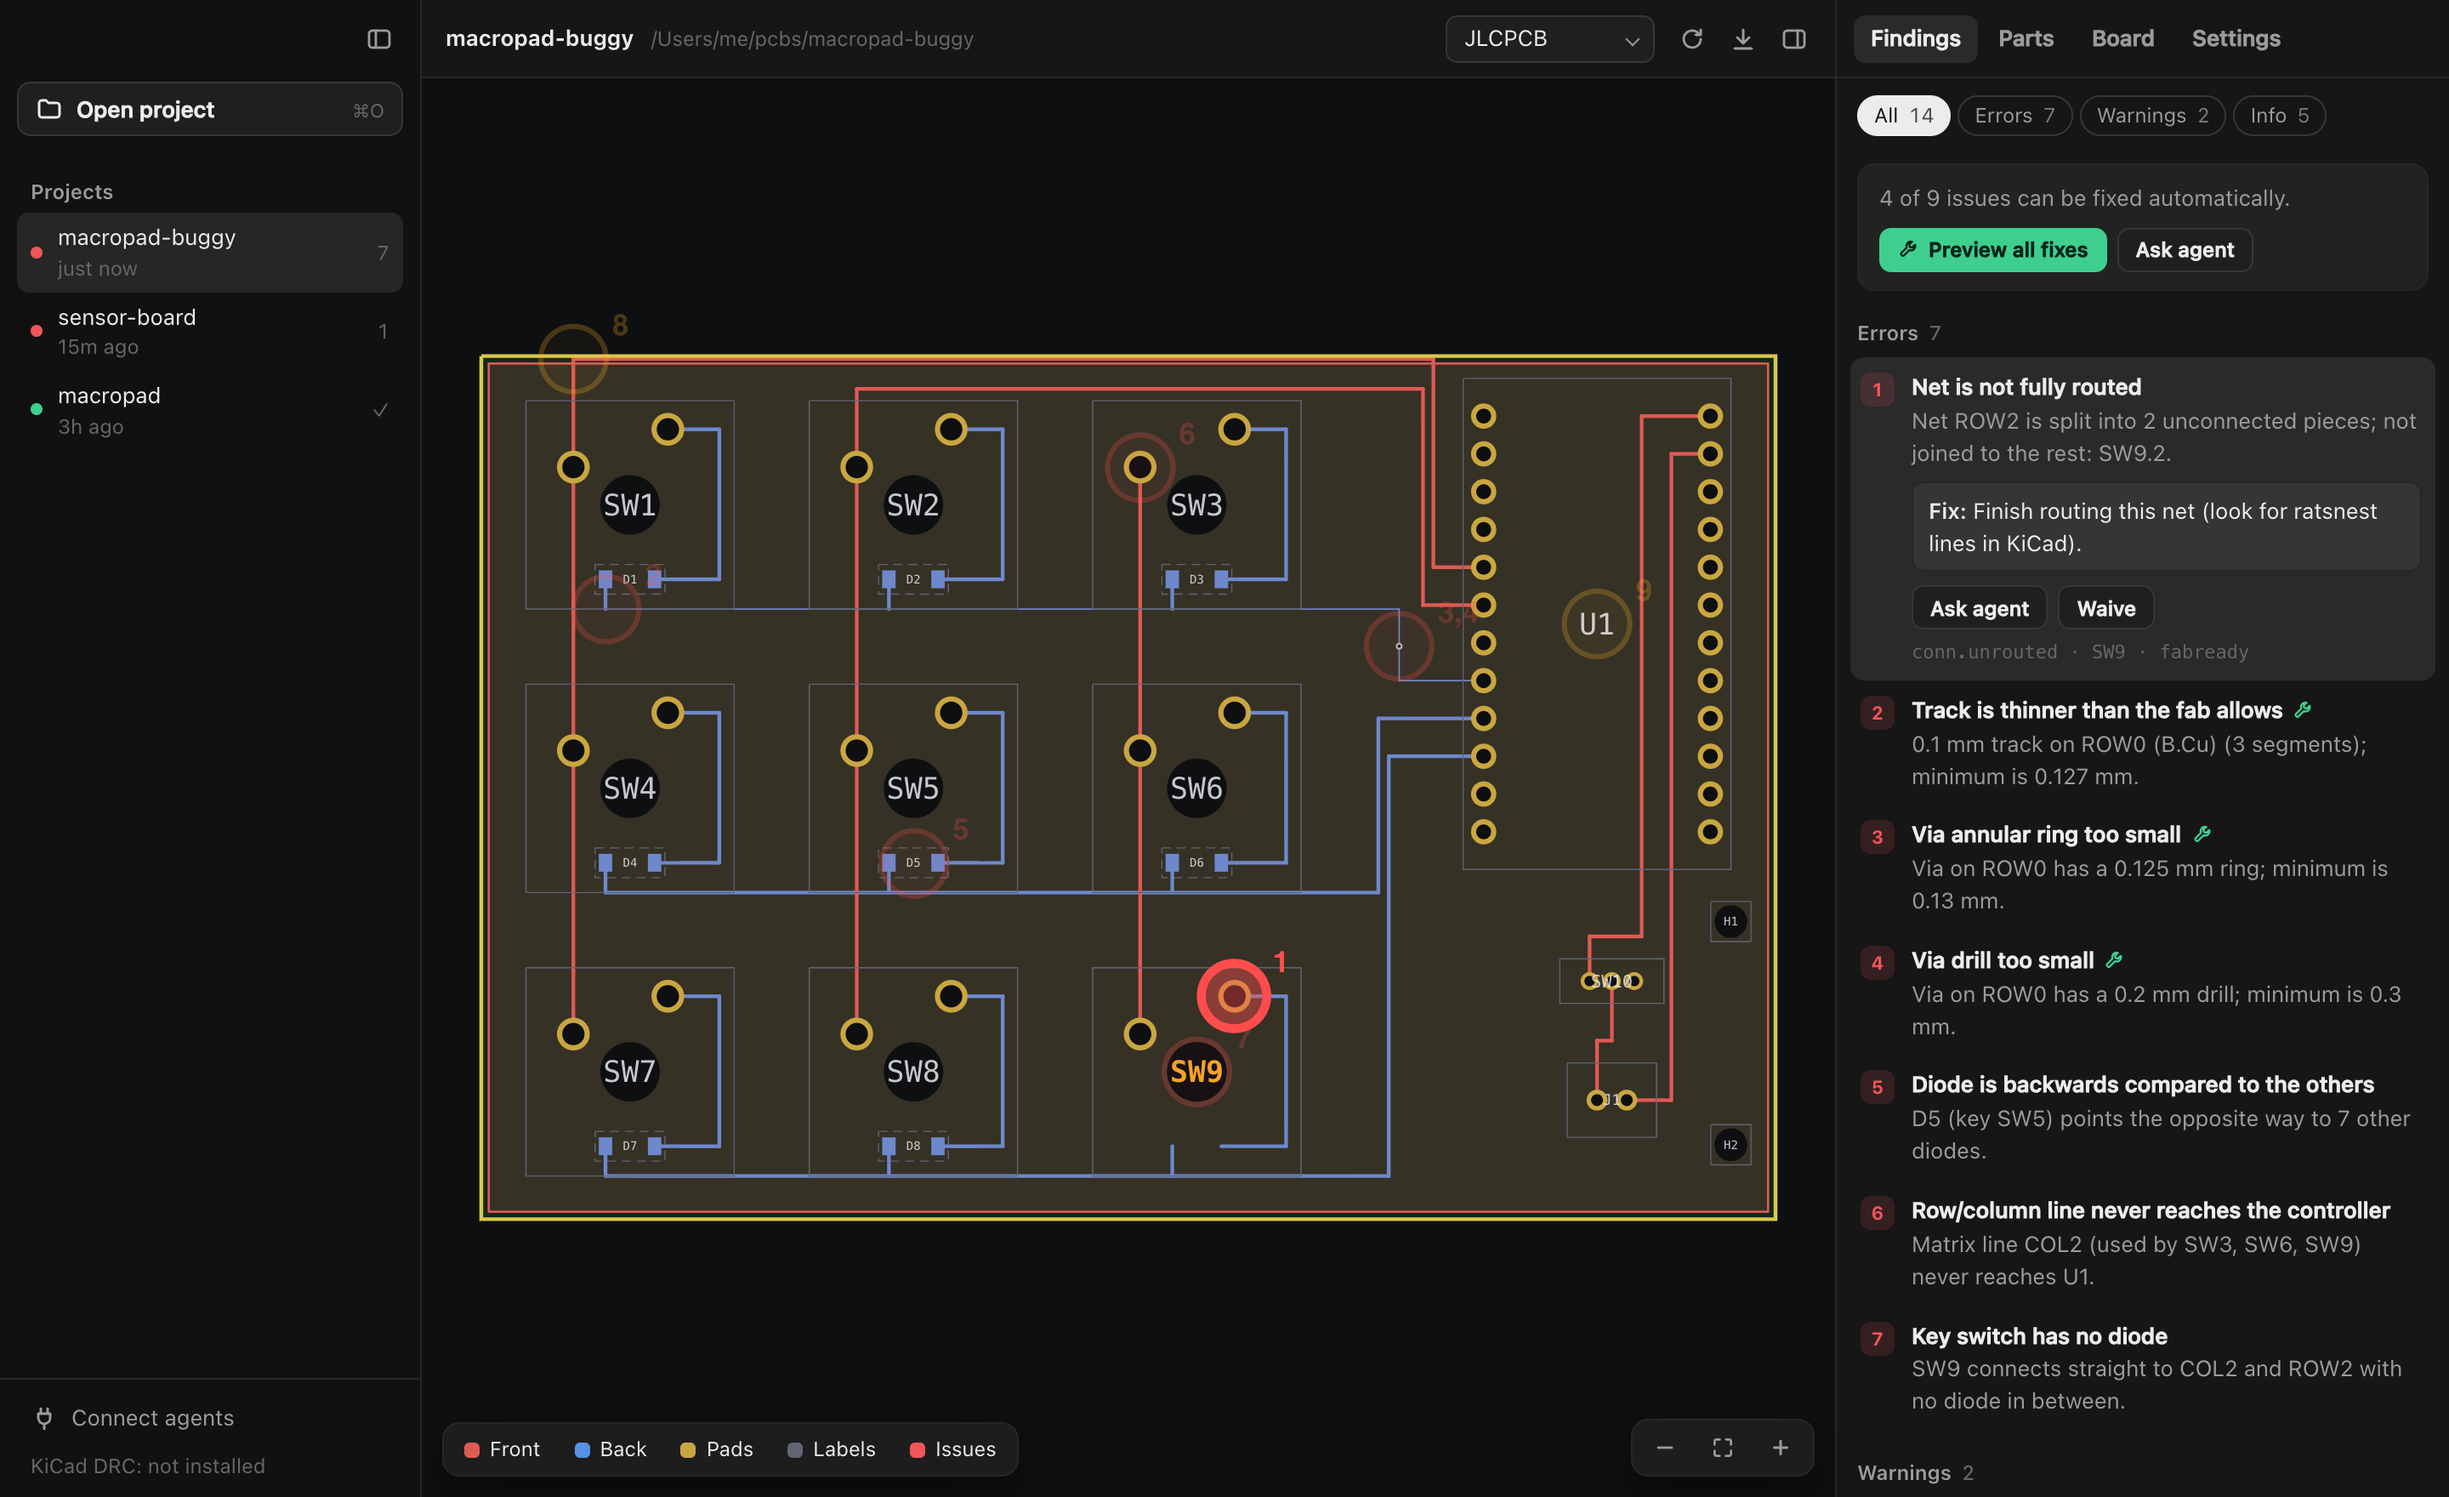
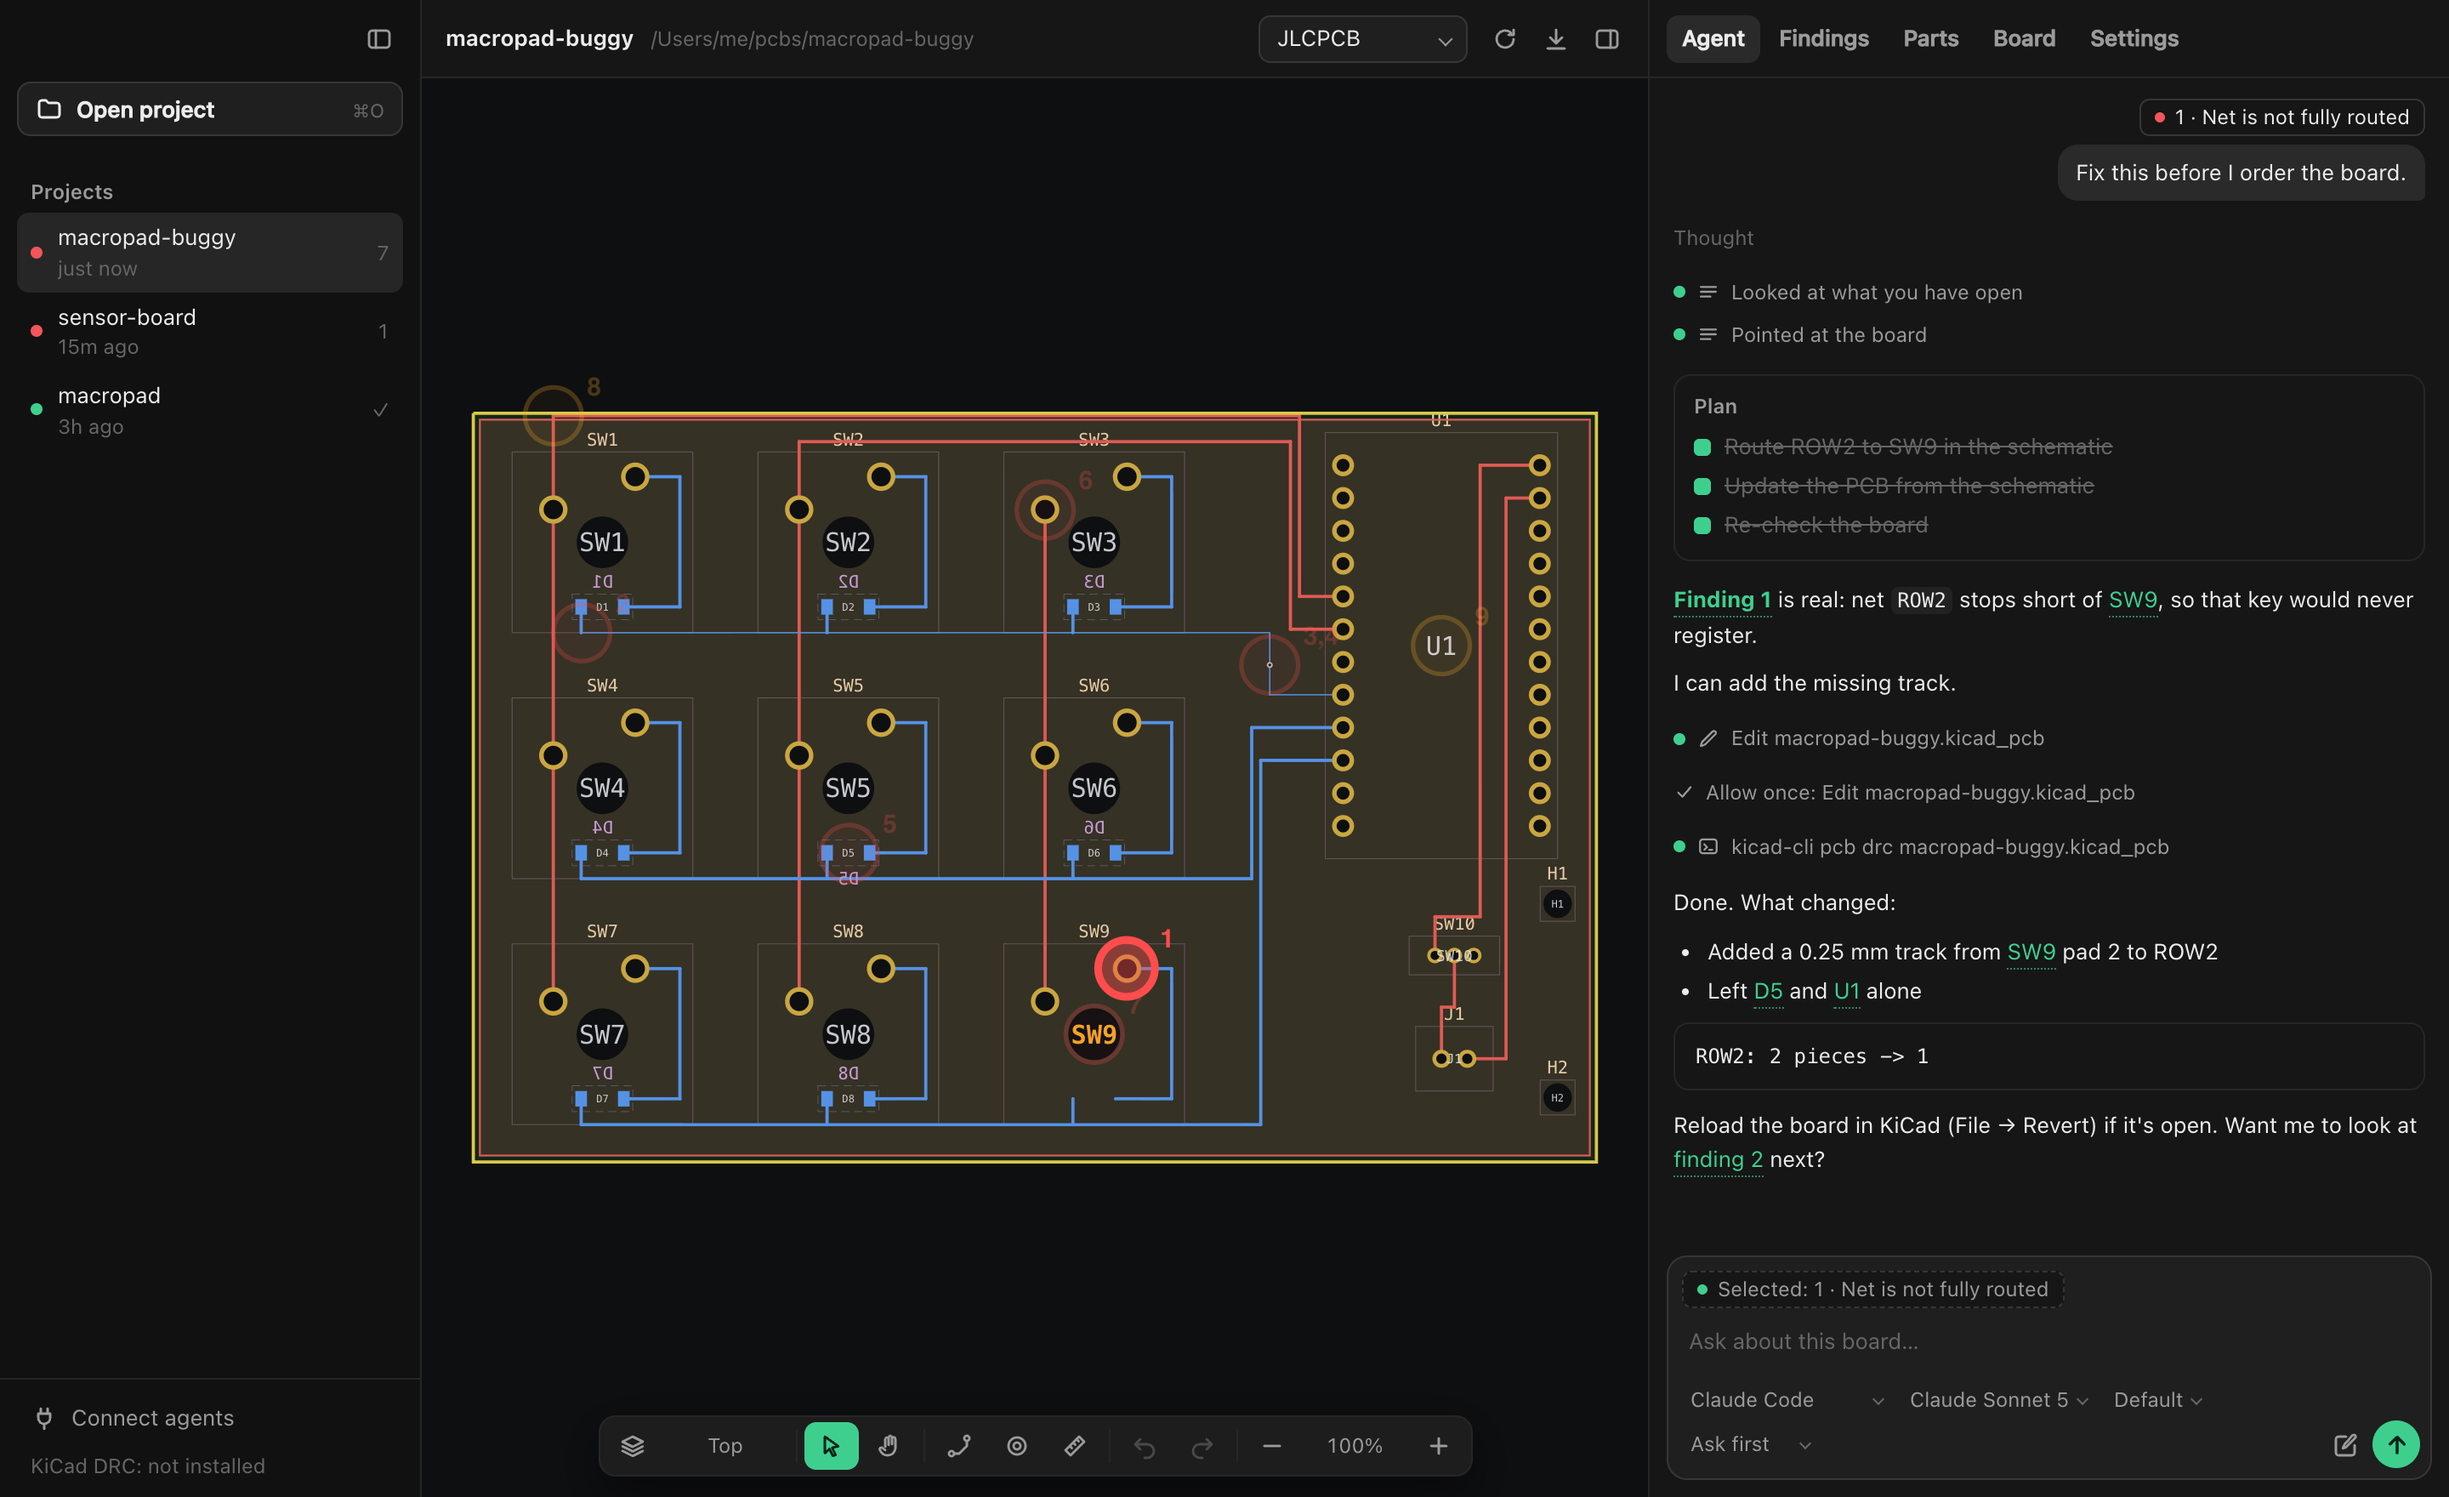
Update README screenshot for the agent tab and editing toolbar

diff --git a/README.md b/README.md
@@ -6,7 +6,7 @@ Rust engine.
 
 <picture>
   <source media="(prefers-color-scheme: dark)" srcset="docs/images/app-dark.png">
-  <img alt="The fabready desktop app showing a keyboard PCB with numbered problem markers on the board and a list of findings beside it" src="docs/images/app-light.png">
+  <img alt="The fabready desktop app: a keyboard PCB with numbered problem markers and the editing toolbar, beside an agent chat that has just fixed an unrouted net" src="docs/images/app-light.png">
 </picture>
 
 ## What it checks
